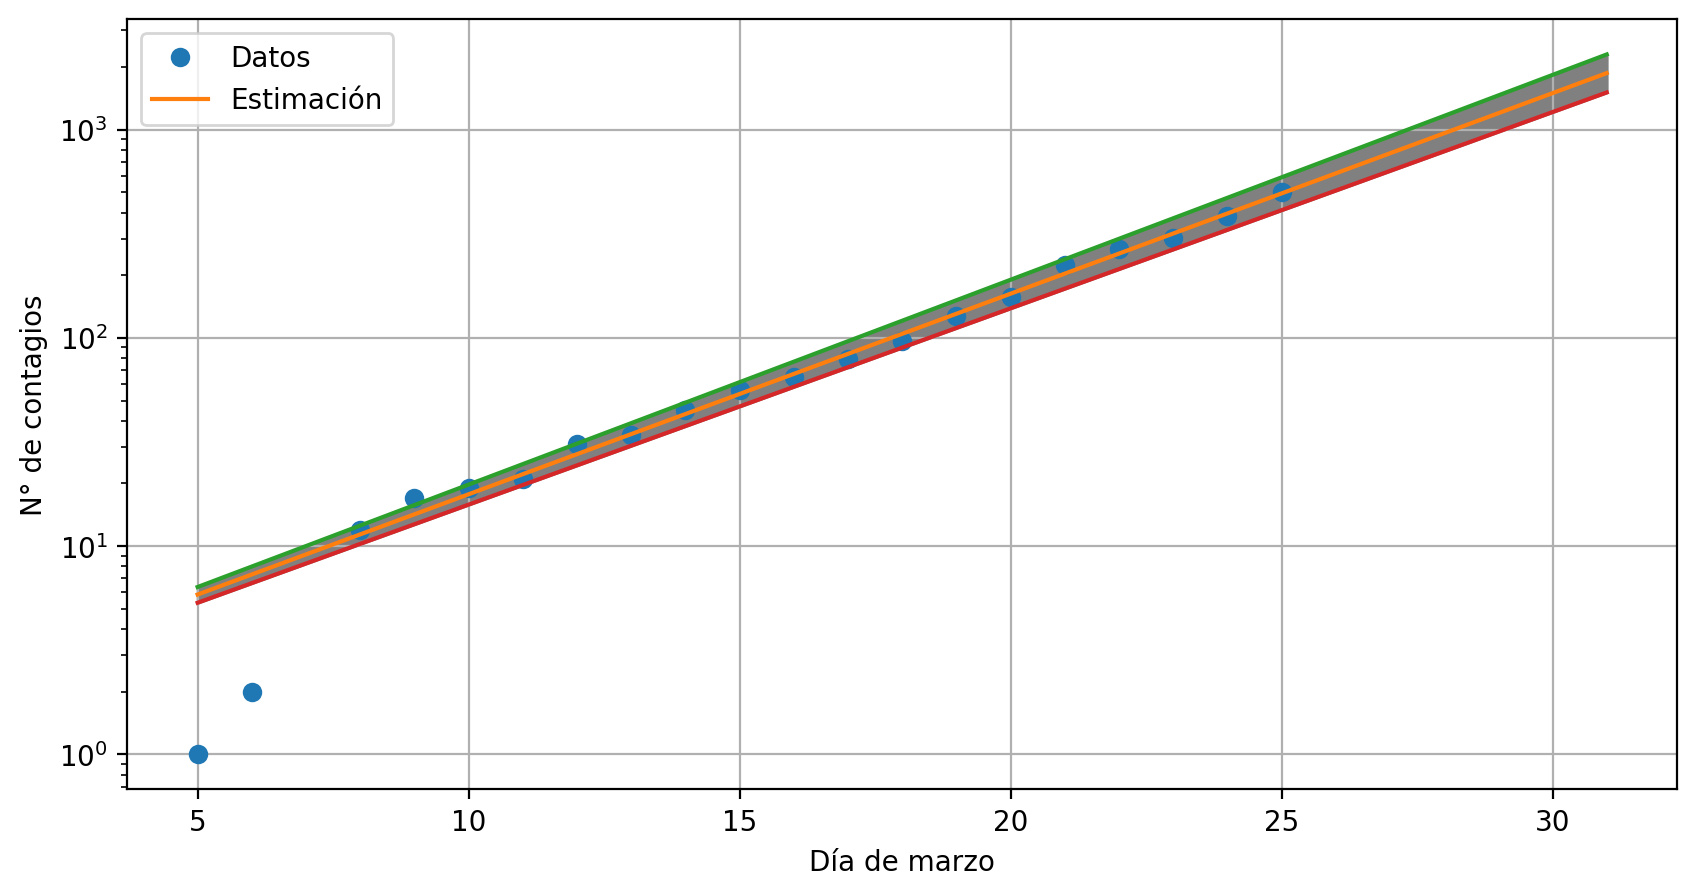
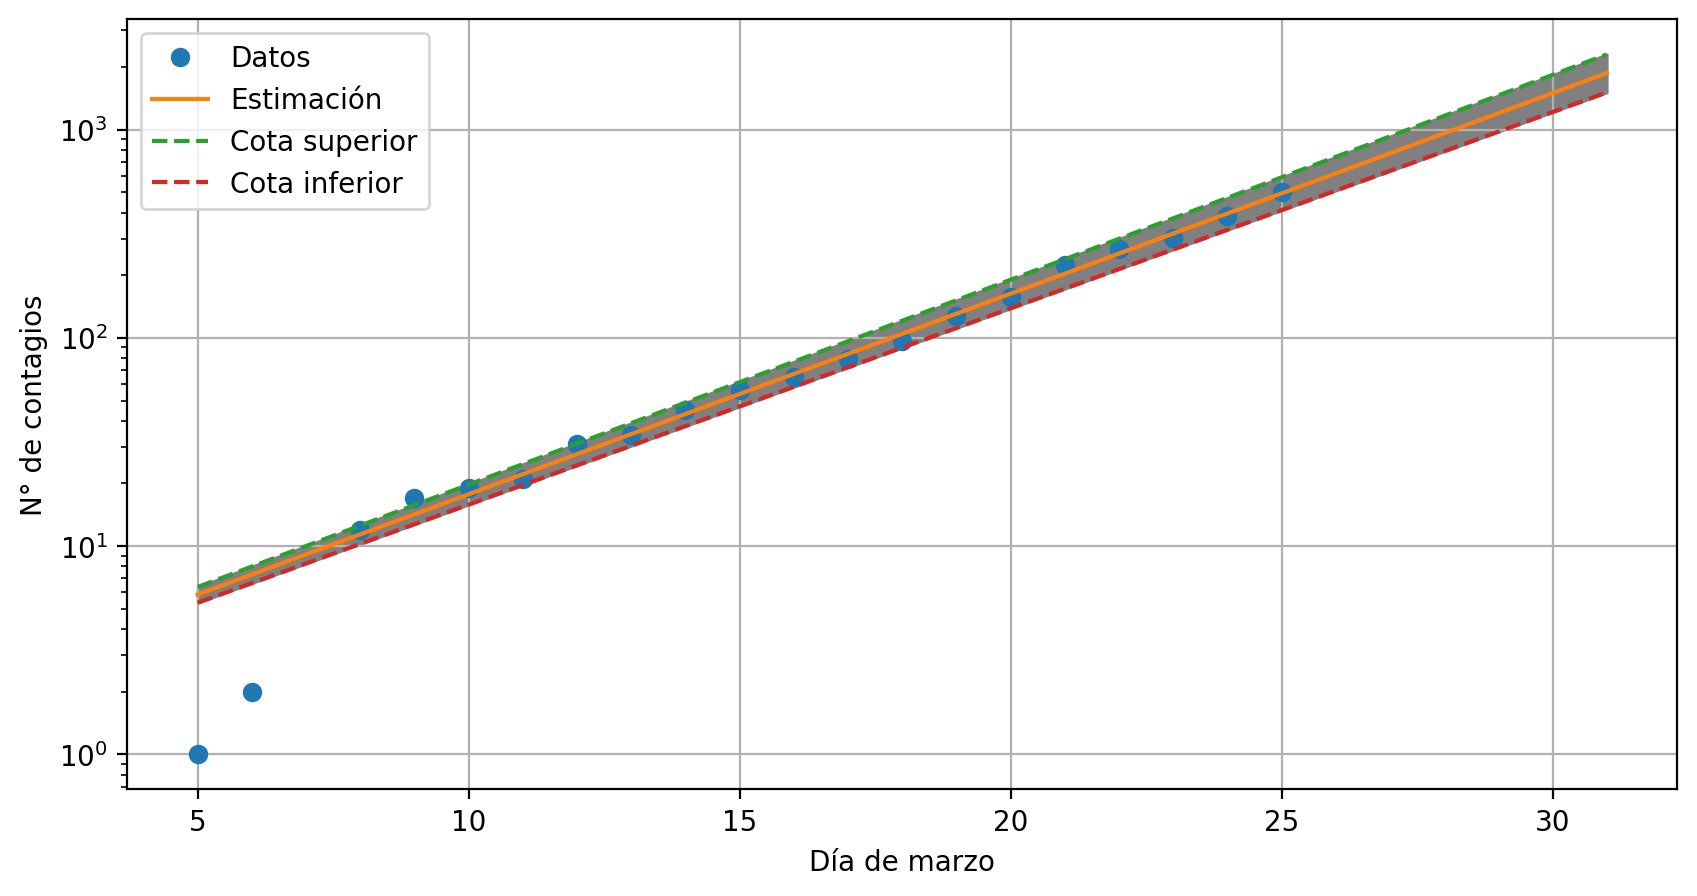
Se agregaron las cotas en la leyenda

Changed region(s): [[0.0937, 0.125, 0.2499, 0.25], [0.2186, 0.0312, 0.2499, 0.0625]]

diff --git a/covid.py b/covid.py
@@ -86,12 +86,12 @@ plt.grid()
 plt.yscale("Log")
 plt.plot(days[0:end] + 5, cases, "o")
 plt.plot(days + 5, fit)
-plt.plot(days + 5, fit_sup)
-plt.plot(days + 5, fit_inf)
+plt.plot(days + 5, fit_sup, linestyle="--")
+plt.plot(days + 5, fit_inf, linestyle="--")
 plt.fill_between(days + 5, fit_sup, fit_inf, color="gray")
 plt.xlabel("Día de marzo")
 plt.ylabel("N° de contagios")
-plt.legend(["Datos", "Estimación"])
+plt.legend(["Datos", "Estimación", "Cota superior", "Cota inferior"])
 # plt.xlim(5,20)
 # plt.ylim(0,175)
 plt.savefig("graphs/covid.png", dpi=200, bbox_inches="tight")
